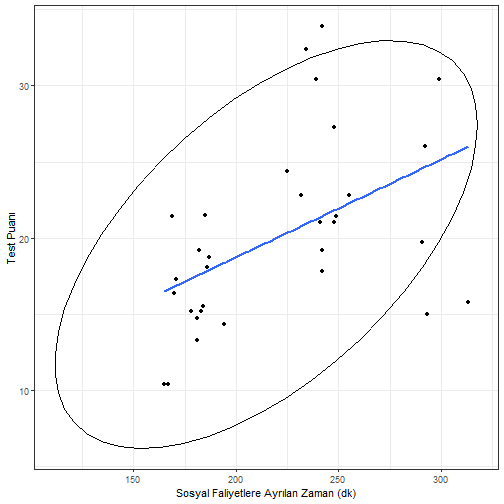
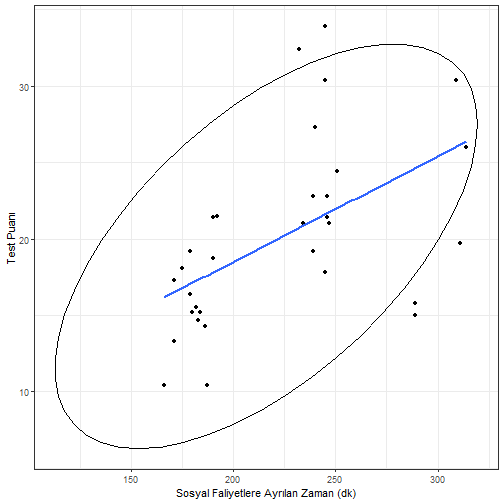
new

diff --git a/sunum/03_Guvenirlik.html b/sunum/03_Guvenirlik.html
@@ -20,7 +20,7 @@ class: center, middle, inverse, title-slide
 # 💹 EGİTİMDE ÖLÇME VE DEĞERLENDİRME
 ]
 .subtitle[
-## <br> 📊 Ölçme Araçlarında Aranan Özellikler
+## <br> 📉 Ölçme Araçlarında Aranan Özellikler
 ]
 .author[
 ### <br> <br> 👩🏫 Dr. Kübra ATALAY KABASAKAL <br> Hacettepe Üniversitesi
@@ -131,8 +131,8 @@ class: center, middle, inverse, title-slide
 
 --
 
-<div class="grViz html-widget html-fill-item" id="htmlwidget-57f0ff7ec436d53d40a7" style="width:100%;height:504px;"></div>
-<script type="application/json" data-for="htmlwidget-57f0ff7ec436d53d40a7">{"x":{"diagram":"digraph{\n                     graph[rankdir = TB]\n                     node[shape = rectangle, style = empty] \n                     A[label = \"Hata Kaynakları\"]\n                     B[label = \"Ölçmeciden\"]\n                     C[label = \"Ölçülen Bireyden\"]\n                     D[label = \"Ortamdan\"]\n                     E[label = \"Araçtan\"]\n\n                     edge[color = red]\n                     A -> B [color = black]\n                     A -> C [color = black]\n                     A -> D [color = black]\n                     A -> E [color = black]\n\n                     }","config":{"engine":"dot","options":null}},"evals":[],"jsHooks":[]}</script>
+<div class="grViz html-widget html-fill-item" id="htmlwidget-16896eb9d9aab59a75ee" style="width:100%;height:504px;"></div>
+<script type="application/json" data-for="htmlwidget-16896eb9d9aab59a75ee">{"x":{"diagram":"digraph{\n                     graph[rankdir = TB]\n                     node[shape = rectangle, style = empty] \n                     A[label = \"Hata Kaynakları\"]\n                     B[label = \"Ölçmeciden\"]\n                     C[label = \"Ölçülen Bireyden\"]\n                     D[label = \"Ortamdan\"]\n                     E[label = \"Araçtan\"]\n\n                     edge[color = red]\n                     A -> B [color = black]\n                     A -> C [color = black]\n                     A -> D [color = black]\n                     A -> E [color = black]\n\n                     }","config":{"engine":"dot","options":null}},"evals":[],"jsHooks":[]}</script>
 
 
 ---
@@ -273,8 +273,8 @@ class: center, middle, inverse, title-slide
 ]
 
 .pull-right[
-<div class="grViz html-widget html-fill-item" id="htmlwidget-11d1a5666d42203049ce" style="width:100%;height:504px;"></div>
-<script type="application/json" data-for="htmlwidget-11d1a5666d42203049ce">{"x":{"diagram":"digraph{\n                     graph[rankdir = TB]\n                     node[shape = rectangle, style = empty] \n                     A[label = \"Hata Türleri\"]\n                     B[label = \"Sabit\"]\n                     C[label = \"Sistematik\"]\n                     D[label = \"Tesadüfi\"]\n                     edge[color = red]\n                     A -> B [color = black]\n                     A -> C [color = black]\n                     A -> D [color = black]\n                     }","config":{"engine":"dot","options":null}},"evals":[],"jsHooks":[]}</script>
+<div class="grViz html-widget html-fill-item" id="htmlwidget-346ec68f011652675414" style="width:100%;height:504px;"></div>
+<script type="application/json" data-for="htmlwidget-346ec68f011652675414">{"x":{"diagram":"digraph{\n                     graph[rankdir = TB]\n                     node[shape = rectangle, style = empty] \n                     A[label = \"Hata Türleri\"]\n                     B[label = \"Sabit\"]\n                     C[label = \"Sistematik\"]\n                     D[label = \"Tesadüfi\"]\n                     edge[color = red]\n                     A -> B [color = black]\n                     A -> C [color = black]\n                     A -> D [color = black]\n                     }","config":{"engine":"dot","options":null}},"evals":[],"jsHooks":[]}</script>
 ]
 ---
 ## Ölçmede Hata
@@ -313,9 +313,6 @@ class: center, middle, inverse, title-slide
 ## Ölçmede Hata
 
 -   Sınav sonuçlarını düşük bulan bir öğretmenin tüm öğrencilerin puanına 5 puan ilave etmesi
---
-
--   Bir yabancı dil sınavında okuyucunun yanlış söylemesi nedeniyle öğrencilerin bir kelimeyi yanlış yazmaları ve bu kelimenin metnin içinde birden fazla geçmesi
 --
 
 -   Bir öğretmenin yaptığı bir yazılı yoklama sınavında az süre vermesi nedeniyle öğrencilerin tamamının son soruyu yanıtlayamaması
@@ -444,7 +441,7 @@ class: center, middle, inverse, title-slide
 ![](03_Guvenirlik_files/figure-html/unnamed-chunk-10-1.png)&lt;!-- --&gt;
 ]
 
-.alert[Sosyal faliyetlere ayrılan zaman ve test puanı arasındaki korelasyon 0.481]
+.alert[Sosyal faliyetlere ayrılan zaman ve test puanı arasındaki korelasyon 0.521]
 
 
 
@@ -545,8 +542,8 @@ class: center, middle, inverse, title-slide
 ##   Güvenirlik
 
 
-<div class="grViz html-widget html-fill-item" id="htmlwidget-d1d413d27011f7670e1c" style="width:100%;height:504px;"></div>
-<script type="application/json" data-for="htmlwidget-d1d413d27011f7670e1c">{"x":{"diagram":"digraph{\n                     graph[rankdir = TB]\n                     node[shape = rectangle, style = empty] \n                     A[label = \"Güvenirlik Belirleme Yöntemleri\"]\n                     B[label = \"Korelasyona Dayalı Yöntemler\"]\n                     C[label = \"Madde Kovaryansına Dayalı Yöntemler\"]\n                     L[label = \"Değerlendirmeciler Arası Tutarlılık\"]\n                     D[label = \"Test Tekrar Test\"]\n                     E[label = \"Parelel Formlar\"]\n                     F[label = \"İki Yarıya Bölme\"]\n                     \n                     G[label = \"Cronbach Alfa\"]\n                     H[label = \"KR-20\"]\n                     I[label = \"KR-21\"]\n                     \n                     M[label = \"Yüzde Uyumu\"]\n                     N[label = \"Sınıf içi Korelasyon\"]\n                     O[label = \"Kappa Yöntemi\"] \n\n                     \n                     edge[color = red]\n                     A -> B [color = black]\n                     A -> C [color = black]\n                     B -> D [color = black]\n                     B -> E [color = black]\n                     B -> F [color = black]\n\n                     C -> G [color = black]\n                     C -> H [color = black]\n                     C -> I [color = black]\n                     \n                     L -> M [color = black]\n                     L -> N [color = black]\n                     L -> O [color = black]\n                     }","config":{"engine":"dot","options":null}},"evals":[],"jsHooks":[]}</script>
+<div class="grViz html-widget html-fill-item" id="htmlwidget-5b31d3c66e0fdd18e4da" style="width:100%;height:504px;"></div>
+<script type="application/json" data-for="htmlwidget-5b31d3c66e0fdd18e4da">{"x":{"diagram":"digraph{\n                     graph[rankdir = TB]\n                     node[shape = rectangle, style = empty] \n                     A[label = \"Güvenirlik Belirleme Yöntemleri\"]\n                     B[label = \"Korelasyona Dayalı Yöntemler\"]\n                     C[label = \"Madde Kovaryansına Dayalı Yöntemler\"]\n                     L[label = \"Değerlendirmeciler Arası Tutarlılık\"]\n                     D[label = \"Test Tekrar Test\"]\n                     E[label = \"Parelel Formlar\"]\n                     F[label = \"İki Yarıya Bölme\"]\n                     \n                     G[label = \"Cronbach Alfa\"]\n                     H[label = \"KR-20\"]\n                     I[label = \"KR-21\"]\n                     \n                     M[label = \"Yüzde Uyumu\"]\n                     N[label = \"Sınıf içi Korelasyon\"]\n                     O[label = \"Kappa Yöntemi\"] \n\n                     \n                     edge[color = red]\n                     A -> B [color = black]\n                     A -> C [color = black]\n                     B -> D [color = black]\n                     B -> E [color = black]\n                     B -> F [color = black]\n\n                     C -> G [color = black]\n                     C -> H [color = black]\n                     C -> I [color = black]\n                     \n                     L -> M [color = black]\n                     L -> N [color = black]\n                     L -> O [color = black]\n                     }","config":{"engine":"dot","options":null}},"evals":[],"jsHooks":[]}</script>
 
 
 ???
